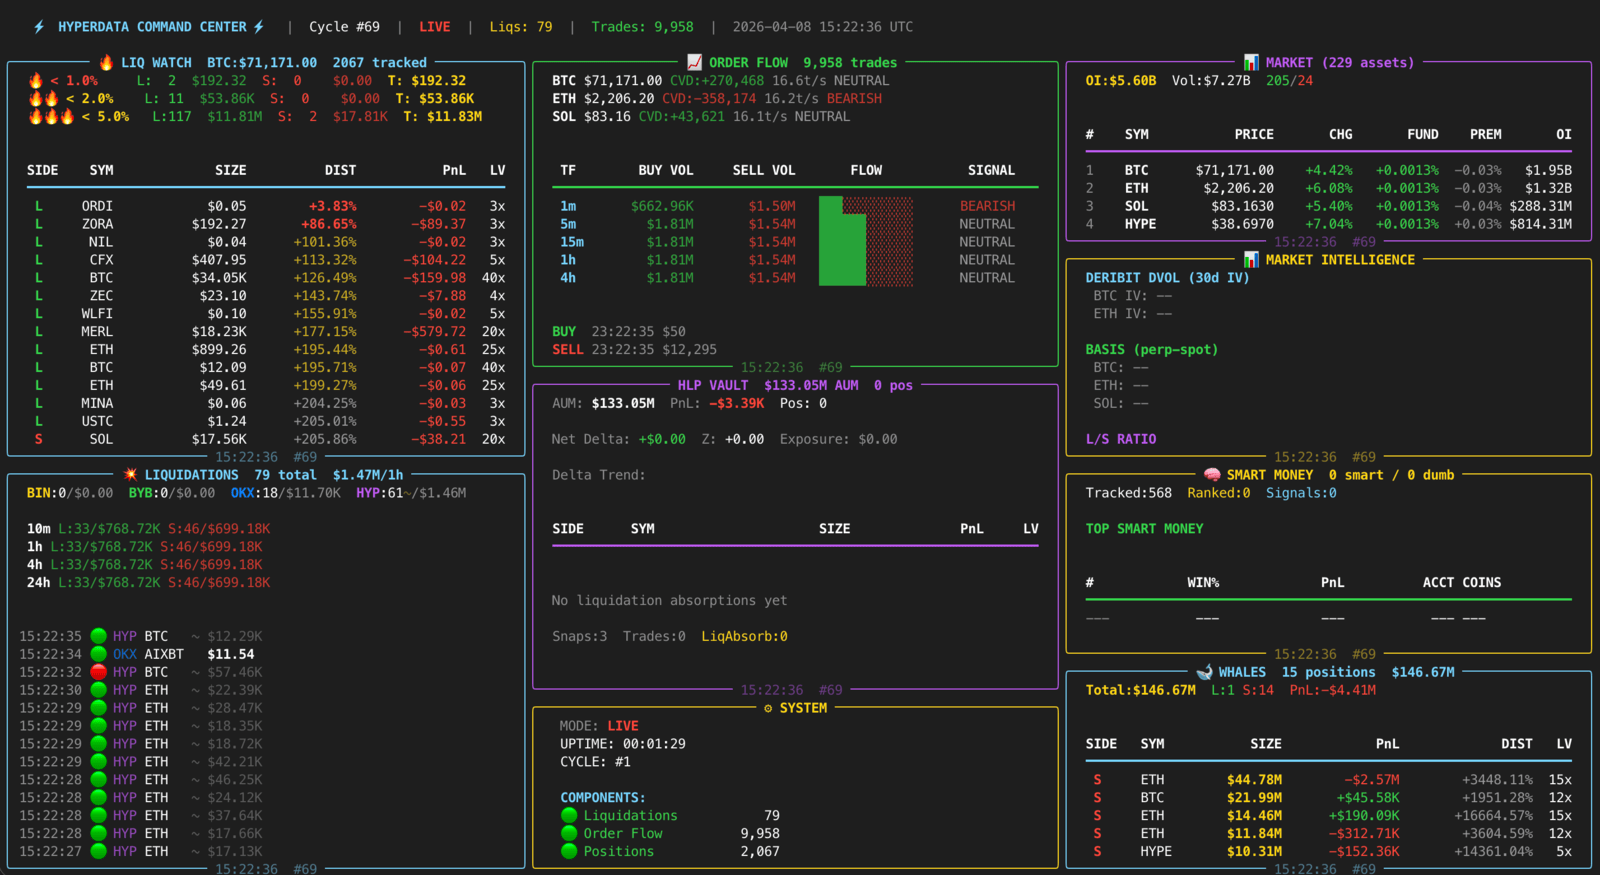
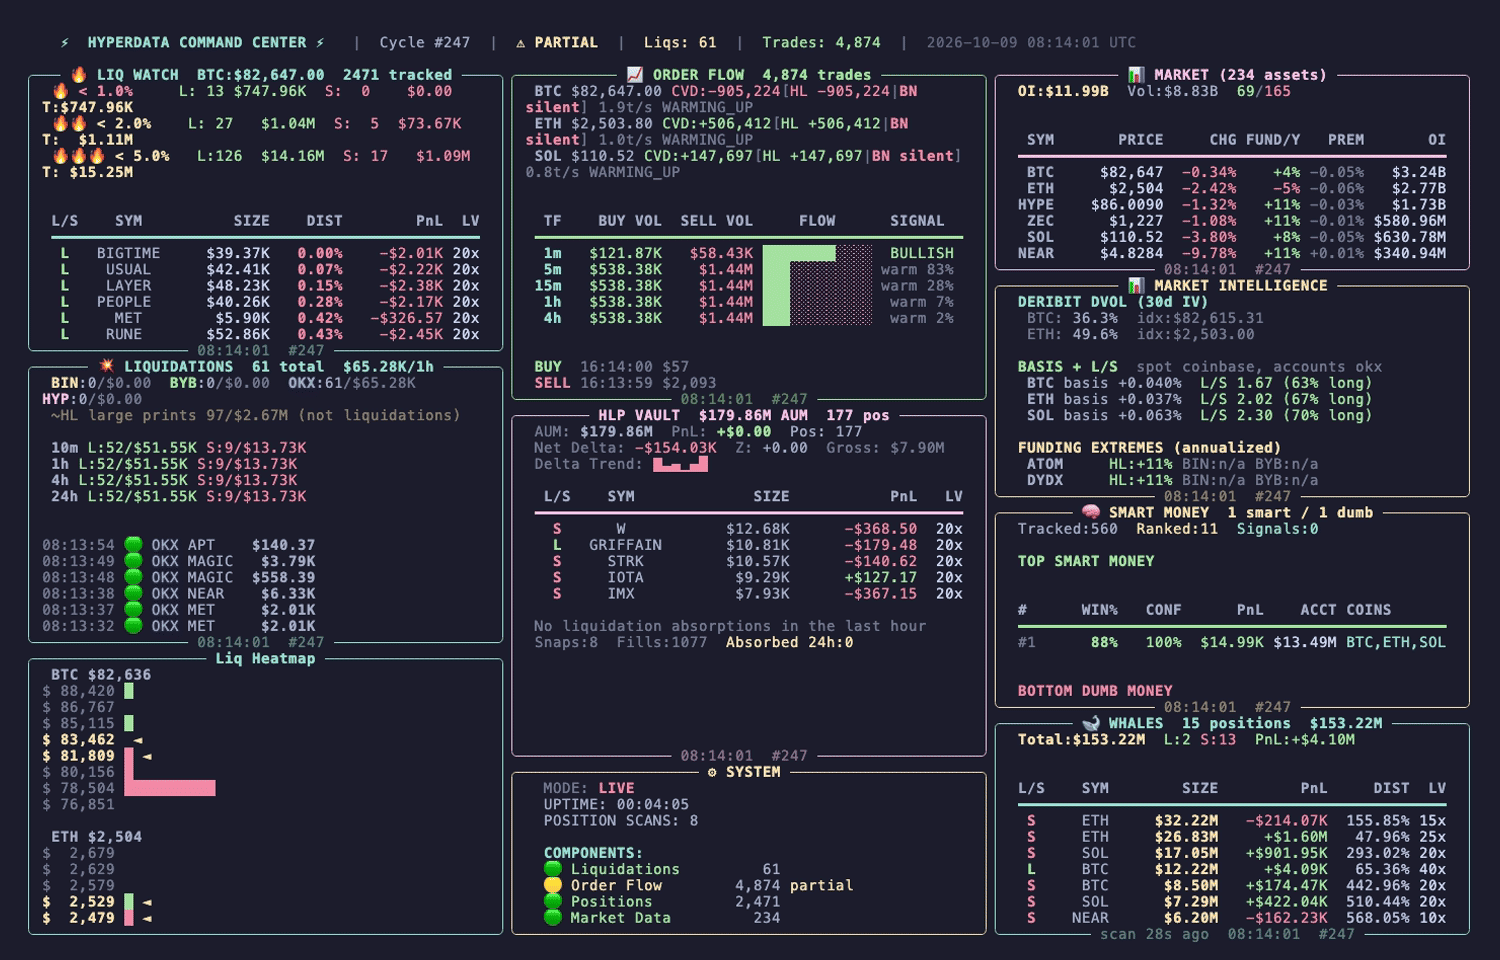
docs: re-record the demo GIF and site screenshot with OKX sizes fixed
The previous recording showed OKX liquidations at $10.5M an hour (the
contract sizing bug). Off camera warmup is now 4 minutes so smart money
tiers are populated, and the site's combined view screenshot is the
GIF's last frame (1500x960) instead of a stale capture.

Changed region(s): [[0.0, 0.0, 1.0, 1.0]]

diff --git a/site/index.html b/site/index.html
@@ -128,8 +128,8 @@
         </div>
 
         <figure class="frame rv" style="--i:3">
-          <div class="frame-bar" aria-hidden="true"><span>hyperdata — all dashboards [0]</span><span>1600 × 875</span></div>
-          <img src="screenshot-market.png" width="1600" height="875" alt="HyperData Terminal's combined view: liquidation watch, order flow, liquidation feed, market overview, HLP vault, system status, market intelligence, smart money and whales panels side by side in one terminal window." loading="lazy" decoding="async">
+          <div class="frame-bar" aria-hidden="true"><span>hyperdata — all dashboards [0]</span><span>1500 × 960</span></div>
+          <img src="screenshot-market.png" width="1500" height="960" alt="HyperData Terminal's combined view: liquidation watch, order flow, liquidation feed, market overview, HLP vault, system status, market intelligence, smart money and whales panels side by side in one terminal window." loading="lazy" decoding="async">
           <figcaption>The combined view. Each panel is one of the data components below, rendered by Rich in a single terminal window.</figcaption>
         </figure>
       </div>
